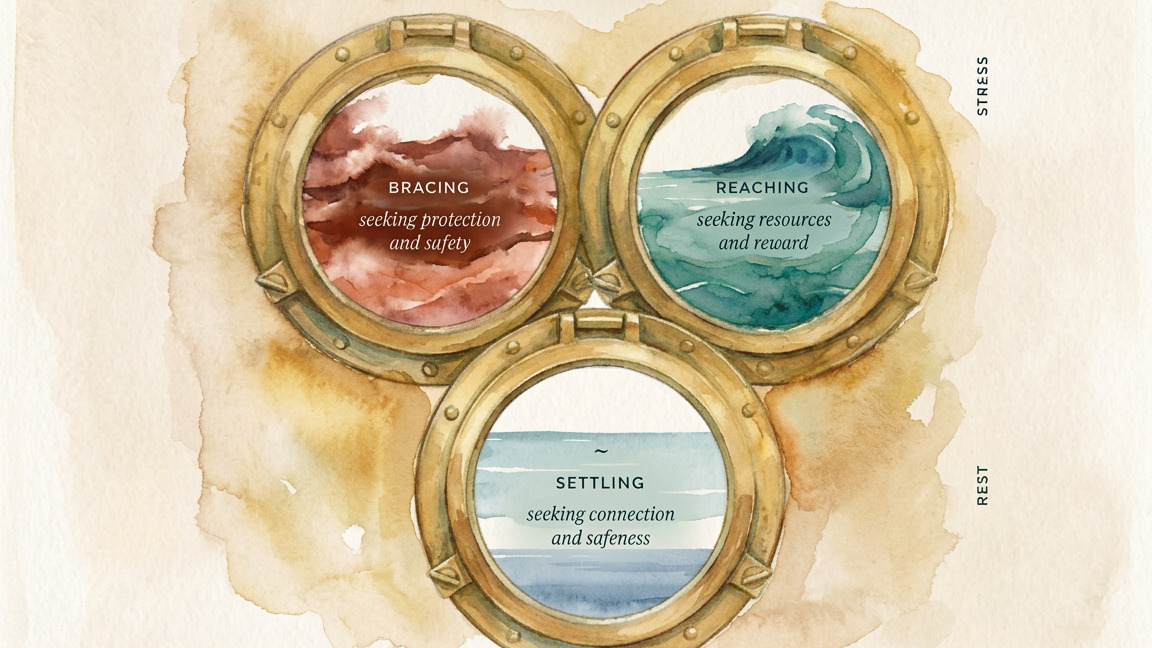
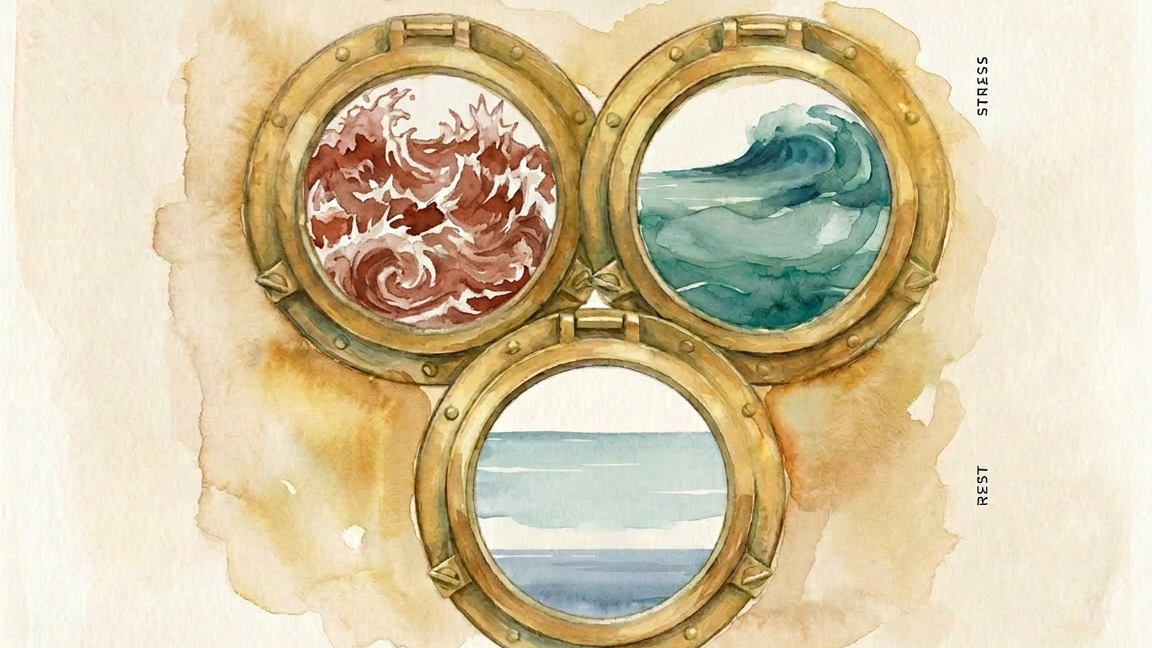
Conditions: label-free porthole art + live HTML labels; add interim privacy page
- replace conditions.png with label-free version; re-crop card-thrive.jpg
- add BRACING/REACHING/SETTLING labels back as live HTML over portholes
  (responsive, accessible), repositioned hotspots to new art
- add interim privacy.html (temp data policy) linked from all footers

diff --git a/privacy.html b/privacy.html
@@ -1,0 +1,84 @@
+<!doctype html>
+<html lang="en">
+<head>
+<meta charset="utf-8">
+<meta name="viewport" content="width=device-width, initial-scale=1">
+<meta name="robots" content="noindex">
+<title>Privacy — an interim note</title>
+<link rel="preconnect" href="https://fonts.googleapis.com">
+<link rel="preconnect" href="https://fonts.gstatic.com" crossorigin>
+<link href="https://fonts.googleapis.com/css2?family=Playfair+Display:ital,wght@0,400;0,500;0,600;1,400&family=DM+Sans:wght@300;400;500;600&display=swap" rel="stylesheet">
+<style>
+  :root {
+    --sand: #F5F0E8;
+    --ink: #2A2420;
+    --ink-soft: #5C534A;
+    --ink-faint: #8A7F73;
+    --paper: #FBF7EF;
+    --line: #E5DBC4;
+    --serif: 'Playfair Display', 'Iowan Old Style', Georgia, serif;
+    --sans: 'DM Sans', -apple-system, BlinkMacSystemFont, system-ui, sans-serif;
+  }
+  * { box-sizing: border-box; }
+  html, body { margin: 0; padding: 0; }
+  body {
+    font-family: var(--sans); background: var(--sand); color: var(--ink);
+    line-height: 1.6; font-size: 16px; -webkit-font-smoothing: antialiased;
+  }
+  .wrap { max-width: 640px; margin: 0 auto; padding: 3.5rem 1.4rem 4rem; }
+  .kicker {
+    font-family: var(--sans); font-size: 0.72rem; font-weight: 500;
+    letter-spacing: 0.22em; text-transform: uppercase; color: var(--ink-faint);
+    margin-bottom: 0.8rem;
+  }
+  h1 { font-family: var(--serif); font-weight: 500; font-size: 2.2rem; line-height: 1.15; margin: 0 0 0.4rem; }
+  h1 .swash { font-style: italic; font-weight: 400; }
+  h2 { font-family: var(--serif); font-weight: 500; font-size: 1.25rem; margin: 2rem 0 0.5rem; }
+  p { color: var(--ink-soft); margin: 0 0 0.9em; }
+  .note {
+    background: var(--paper); border: 1px solid var(--line);
+    border-radius: 14px; padding: 1.1rem 1.3rem; margin: 1.4rem 0;
+    color: var(--ink-soft); font-style: italic;
+  }
+  ul { color: var(--ink-soft); padding-left: 1.2rem; }
+  li { margin: 0 0 0.5em; }
+  a.back { display: inline-block; margin-top: 2.2rem; color: var(--ink-faint); text-decoration: none; font-size: 0.95rem; }
+  a.back:hover { color: var(--ink-soft); }
+</style>
+</head>
+<body>
+  <div class="wrap">
+    <p class="kicker">A gentle note</p>
+    <h1>Your <span class="swash">privacy</span></h1>
+
+    <p class="note">This is a <strong>temporary notice</strong> while a full privacy
+    policy is prepared. It will be replaced soon with a complete version.</p>
+
+    <p>These tools are part of your work with your coach. They're here to help you
+    notice and reflect — at your own pace, in your own words.</p>
+
+    <h2>What you write</h2>
+    <p>Notes and reflections you make in these tools are saved so you can return to
+    them over time. You decide what to write, and what to leave out.</p>
+
+    <h2>What's shared</h2>
+    <p>Anything you choose to send using <em>“Send to your coach”</em> goes to your
+    coach, and only when you choose to send it. Where your coach has set up a shared
+    record, what you save may also be visible to them, to support your sessions —
+    your coach will let you know if this applies to you.</p>
+
+    <h2>Your choices</h2>
+    <ul>
+      <li>You're always free to write as much or as little as you like.</li>
+      <li>You can ask your coach what is kept, and ask for it to be removed.</li>
+    </ul>
+
+    <h2>Questions</h2>
+    <p>If anything here is unclear, please speak to your coach. A full privacy
+    notice — including who holds your information, the lawful basis for it, and how
+    long it's kept — will follow.</p>
+
+    <a class="back" href="index.html">← Back</a>
+  </div>
+</body>
+</html>

diff --git a/conditions.html b/conditions.html
@@ -256,9 +256,12 @@
   .circles-figure img { width: 100%; height: auto; display: block; }
   .port-hotspot {
     position: absolute; transform: translate(-50%, -50%);
-    width: 22%; aspect-ratio: 1 / 1; border-radius: 50%;
+    width: 24%; aspect-ratio: 1 / 1; border-radius: 50%;
     appearance: none; border: none; background: transparent;
     padding: 0; cursor: pointer;
+    display: flex; flex-direction: column;
+    align-items: center; justify-content: center;
+    text-align: center; gap: 0.3rem;
     transition: box-shadow 300ms ease;
   }
   .port-hotspot:hover, .port-hotspot:focus-visible {
@@ -267,6 +270,18 @@
   }
   .port-hotspot.active {
     box-shadow: 0 0 0 4px rgba(255,255,255,0.6), 0 0 0 8px var(--green);
+  }
+  .port-name {
+    font-family: var(--sans); font-weight: 600;
+    font-size: clamp(0.5rem, 1.5vw, 0.72rem);
+    letter-spacing: 0.18em; text-transform: uppercase;
+    color: #fff; text-shadow: 0 1px 4px rgba(40,30,20,0.6);
+  }
+  .port-tag {
+    font-family: var(--serif); font-style: italic;
+    font-size: clamp(0.62rem, 1.7vw, 0.95rem);
+    color: #fff; line-height: 1.25;
+    text-shadow: 0 1px 4px rgba(40,30,20,0.6);
   }
 
   /* circle detail panel */
@@ -542,9 +557,18 @@
 
   <figure class="circles-figure">
     <img src="conditions.png" alt="Three brass portholes showing the sea in three states — Bracing (stormy red water, seeking protection and safety), Reaching (a rising teal wave, seeking resources and reward), and Settling (calm layered water, seeking connection and safeness) — set between Stress and Rest.">
-    <button class="port-hotspot" data-c="threat" type="button" aria-pressed="false" aria-label="Bracing — seeking protection and safety" style="left:35.6%; top:43.1%;"></button>
-    <button class="port-hotspot" data-c="drive" type="button" aria-pressed="false" aria-label="Reaching — seeking resources and reward" style="left:65.3%; top:43.1%;"></button>
-    <button class="port-hotspot" data-c="sooth" type="button" aria-pressed="false" aria-label="Settling — seeking connection and safeness" style="left:50.8%; top:74.9%;"></button>
+    <button class="port-hotspot" data-c="threat" type="button" aria-pressed="false" aria-label="Bracing — seeking protection and safety" style="left:31%; top:45%;">
+      <span class="port-name">Bracing</span>
+      <span class="port-tag">seeking protection<br>and safety</span>
+    </button>
+    <button class="port-hotspot" data-c="drive" type="button" aria-pressed="false" aria-label="Reaching — seeking resources and reward" style="left:67%; top:43%;">
+      <span class="port-name">Reaching</span>
+      <span class="port-tag">seeking resources<br>and reward</span>
+    </button>
+    <button class="port-hotspot" data-c="sooth" type="button" aria-pressed="false" aria-label="Settling — seeking connection and safeness" style="left:49%; top:74%;">
+      <span class="port-name">Settling</span>
+      <span class="port-tag">seeking connection<br>and safeness</span>
+    </button>
   </figure>
 
   <div class="circle-detail" id="circleDetail">
@@ -628,7 +652,7 @@
 
 <footer>
   <span class="mark">~</span>
-  <p>Made with care, for noticing.</p>
+  <p>Made with care, for noticing. · <a href="privacy.html" style="color:#8A7F73;">Privacy</a></p>
 </footer>
 
 <script>

diff --git a/index.html b/index.html
@@ -357,7 +357,7 @@
 
 <footer>
   <span class="mark">~</span>
-  <p>Made with care, for noticing.</p>
+  <p>Made with care, for noticing. · <a href="privacy.html" style="color:#8A7F73;">Privacy</a></p>
 </footer>
 
 </body>

diff --git a/shifting-states.html b/shifting-states.html
@@ -466,7 +466,7 @@
 
 <footer>
   <span class="mark">~</span>
-  <p>Made with care, for noticing.</p>
+  <p>Made with care, for noticing. · <a href="privacy.html" style="color:#8A7F73;">Privacy</a></p>
 </footer>
 
 <script>

diff --git a/window.html b/window.html
@@ -1683,7 +1683,7 @@
 
 <footer>
   <span class="mark">~</span>
-  <p>Made with care, for noticing.</p>
+  <p>Made with care, for noticing. · <a href="privacy.html" style="color:#8A7F73;">Privacy</a></p>
 </footer>
 
 <!-- ============== WELCOME ============== -->